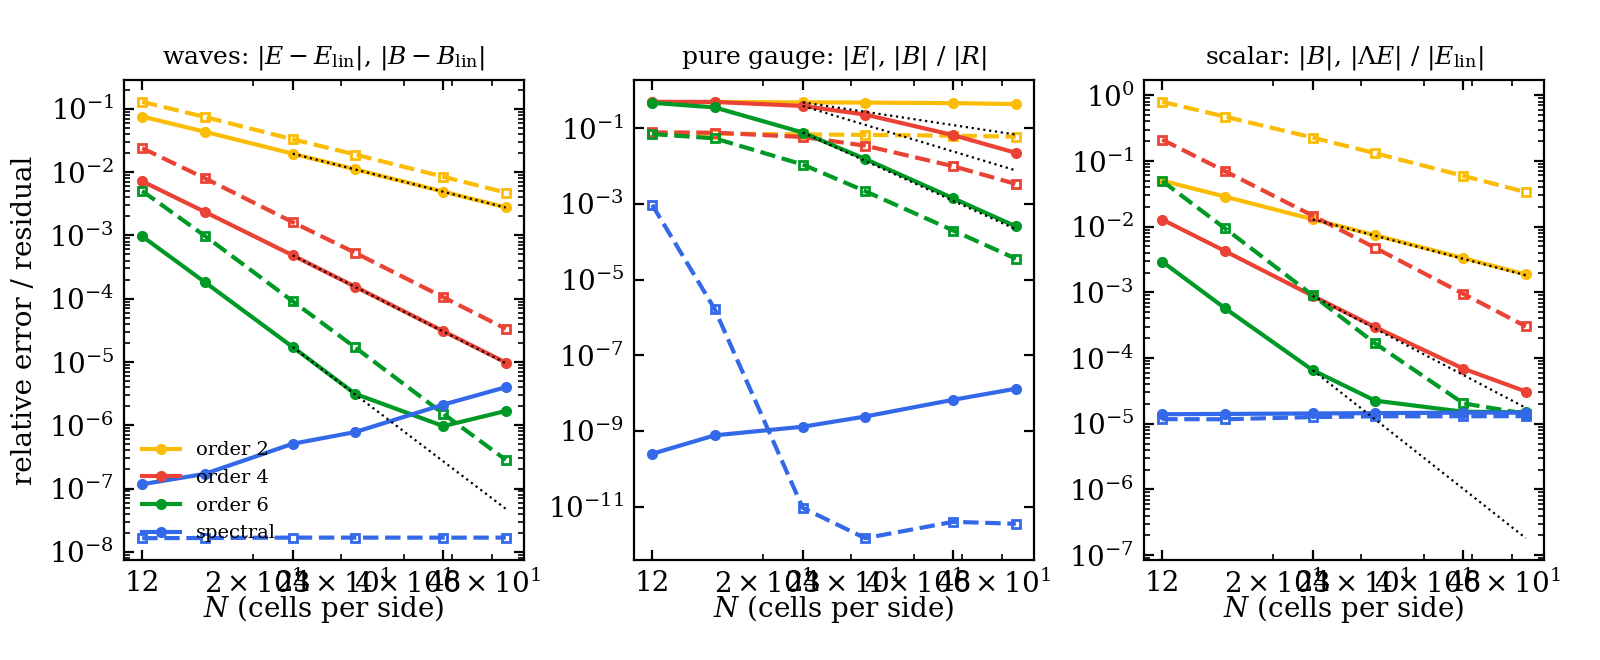
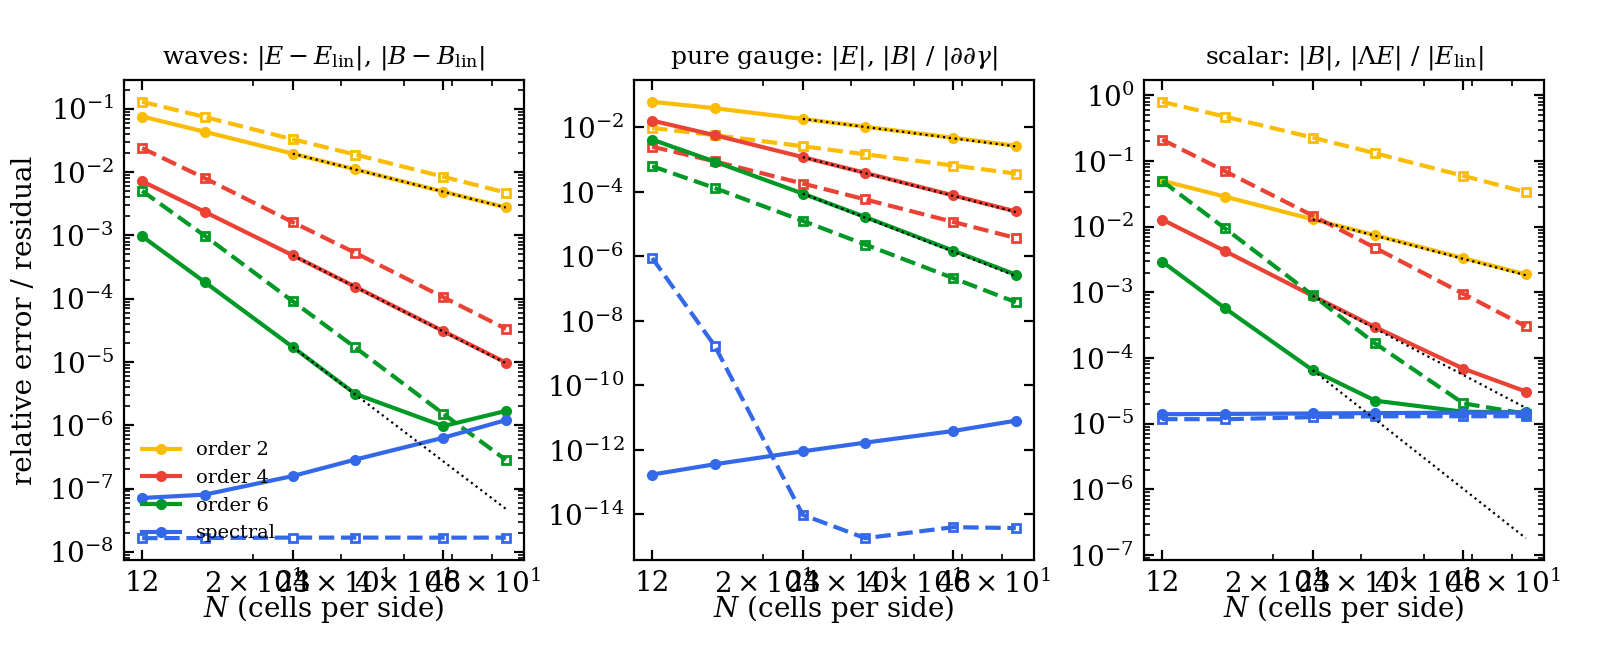
gw_diag: Weyl E/B/Psi4 converge at orders 2/4/6 on waves, pure gauge and scalar data (run ...-115540-2cb33df); Psi4 = hdd_+ - i hdd_x confirmed
Claude-Session: https://claude.ai/code/session_01VD79cUYemmpt27M8dtYPfW

diff --git a/tracks/B-emd-gw/gw_diag/scripts/validate_weyl.py b/tracks/B-emd-gw/gw_diag/scripts/validate_weyl.py
@@ -20,6 +20,7 @@ from nrpic import figstyle as fs  # noqa: E402
 import matplotlib  # noqa: E402
 matplotlib.use("Agg")
 import matplotlib.pyplot as plt  # noqa: E402
+import matplotlib.ticker  # noqa: E402
 
 OUT = os.environ.get("RUN_DIR", os.path.join(HERE, "..", "figs"))
 FIGS = os.path.join(HERE, "..", "figs")
@@ -173,8 +174,10 @@ for i, case in enumerate(("waves", "gauge", "scalar")):
     ax.set_title(titles[case], fontsize=9)
     ax.set_xticks([12, 24, 48])
     ax.set_xticklabels(["12", "24", "48"])
+    ax.xaxis.set_minor_formatter(matplotlib.ticker.NullFormatter())
     if i == 0:
         ax.set_ylabel("relative error / residual")
+    if i == 2:
         ax.legend(loc="lower left", fontsize=7)
 save(fig, "weyl_convergence")
 
@@ -192,7 +195,8 @@ ax1.plot(s_diag[o], np.abs(prof["reverse"][o]) / A, color=C["green"], lw=1.0,
          label=r"$|\Psi_4|$ along $-\hat k$")
 ax1.set_xlabel(r"$(x+y)/\sqrt{2}$ along the diagonal $z = z_0$")
 ax1.set_ylabel(r"$\Psi_4 / A$")
-ax1.legend(loc="lower left", fontsize=7, ncol=2)
+ax1.legend(loc="upper center", fontsize=7, ncol=2)
+ax1.set_ylim(-85, 140)
 ax2.loglog(amps, [psi[a]["err"] for a in amps], "o-", color=C["red"], label=r"$\Psi_4$ error")
 ax2.loglog(amps, [psi[a]["E_err"] for a in amps], "s--", color=C["yellow"], mfc="none", label=r"$E$ error")
 ax2.loglog(amps, [psi[a]["B_err"] for a in amps], "^:", color=C["green"], mfc="none", label=r"$B$ error")

diff --git a/tracks/B-emd-gw/gw_diag/JOURNAL.md b/tracks/B-emd-gw/gw_diag/JOURNAL.md
@@ -191,3 +191,22 @@ max|E_lin| (the TT-part statement), Psi_4 along y and along (1,1,0) nonzero and 
   1.001), as predicted. Scalar mode: Psi_4 along k exactly 0; along y and (1,1,0) it equals
   -E_lin mbar mbar to 3.0e-6 relative (= O(eps), eps = 1e-6), max|Psi_4| = 7.9e-5 = 0.75 max|E_lin|.
   PASSED: a scalar perturbation produces Psi_4 off its wavevector (D4).
+
+## Outcome of the Weyl validation rerun, run B-emd-gw-20261115-115540-2cb33df
+
+Fitted orders (points with N >= 16 and above 20x the spectral value at the same N):
+waves E/B 1.99/1.98, 3.95/3.95, 5.84/5.89; pure gauge (|E|, |B| / max|dd gamma|) 1.94/1.98,
+3.93/3.95, 5.83/5.88; scalar E/B/Lambda E 1.93/1.97/1.91, 3.92/3.86/3.93, 5.82/-/5.81 (order-6 B
+reaches the second-order floor 1.5e-5 by N = 32). Spectral: pure gauge E and B at 1e-12..1e-15
+for N >= 24 (B at N = 12: 9e-7, the non-band-limited part of the nonlinear data); waves B at the
+O(A) floor 1.7e-8; waves E rising 7e-8 -> 1.2e-6 with N (representation floor of 1 + h, ~N^2;
+the mean removal lowered it from 4.0e-6 at N = 64). PASSED (P2, P3 Weyl part, P4).
+Psi_4 of the plane wave m = (1,1,0): error proportional to A (slope 1.001) and equal to
+hddot_+ - i hddot_x (sign convention D2 confirmed). FAILED in a benign way: |Psi_4(-k)|/|Psi_4(k)|
+was predicted O(A) but is 5e-7 at A = 1e-8 falling to 6e-13 at A = 1e-2, i.e. a constant round-off
+absolute value: for a single plane wave the reversed scalar vanishes at every order.
+[BACKGROUND] a metric depending on x only through t - n.x is a plane-fronted wave whose Weyl
+tensor is of Petrov type N with respect to n, so only the outgoing scalar is nonzero; the O(A^2)
+part of the data is null dust (R_uu ~ hdot^2), which enters E and B only through traces and n n
+terms that mbar mbar does not see. For a superposition with several directions the reverse
+scalar is O(A^2) from the cross terms (not measured here).
